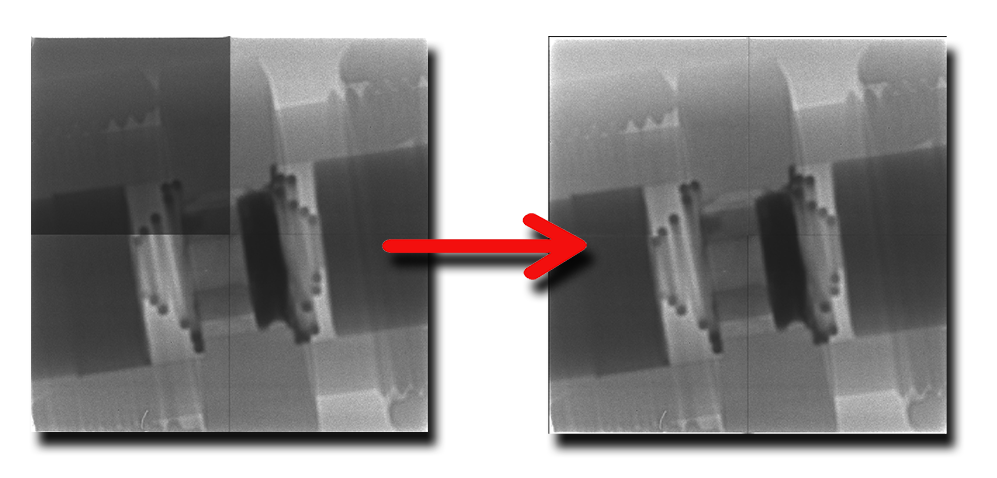
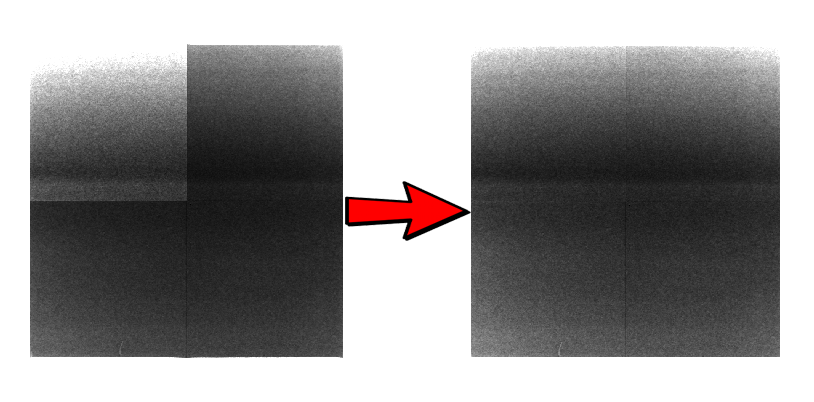
MCP chips correction

diff --git a/content/tutorial/notebooks/mcp_chips_corrector/_index.en.md b/content/tutorial/notebooks/mcp_chips_corrector/_index.en.md
@@ -9,9 +9,13 @@ pre: "- "
 
 ## Description
 
-This notebook will allow you to correct individual MCP chips by applying an offset as shown here.
+This notebook can perform the following correction:
 
+ * apply an offset on the intensity of all the pixels of a given chip
 <img src='/tutorial/notebooks/mcp_chips_corrector/images/before_after.png' />
+
+ * fix the gap between the chips
+<img src='/tutorial/notebooks/mcp_chips_corrector/images/raw_alignment_corrected.png' />
 
 ## Start the notebook
 
@@ -39,46 +43,50 @@ Need help using the [File Selector]({{%relref "/tutorial/notebooks/file_selector
 
 <img src='/tutorial/notebooks/mcp_chips_corrector/images/ui_preview_1.png' />
 <img src='/tutorial/notebooks/mcp_chips_corrector/images/ui_preview_2.png' />
+<img src='/tutorial/notebooks/mcp_chips_corrector/images/ui_preview_3.png' />
+<img src='/tutorial/notebooks/mcp_chips_corrector/images/ui_preview_4.png' />
 
 ## How Does it Work ?
 
-The first tab **Setup** allows to define the chips that needs to be corrected. The image displayed is the integrated
-signal of all the images selected. A profile region, that can be
-resized and reoriented, allows to calculate automatically the average counts on either side of a chip gap. The
-difference of average counts leads to the calculation of a corrector coefficient that is applied to the
-working chips (red framing around it). The second tab **with correction** displays the resulting correction applied
-to the integrated image. 
+The UI is composed of 3 main tabs. The first tab allows you to **apply an offset on any of the chip**, the second tab
+to **correct the geometrical gap between the chips and, if you want, fill the gap with interpolated value**, and the
+final tab display the result of those corrections combined into the integrated stack of images selected.
 
 ### Step by Step
 
-#### Step 1 - Select the profile to use
+#### Step 1 - Apply Contrast Correction
 
-In this first step, you need to define a region, either vertically or horizontally, that overlap the working
-chip and another chip to estimate the correction to apply. If the profile selected is horizontally for example, the 
-program will integrate all the pixels in the vertical direction within the profile region. The profile is then
-displayed on the right side of the UI with the average counts for either side of the gap, gap highlighted as a 
-green vertical line. 
+If you want to correct the intensity of any of the chips, click the **Apply contrast correction** check box.
 
+You can correct the intensity of the chips selected in the **chips index to correct** box in 2 ways:
+
+ * manual mode
+ * automatic mode
+ 
+ **Manual mode**
+ 
+ Enter a **coefficient corrector** value in the field (bottom right) and hit ENTER.
+ 
+ **Automatic mode**
+ 
+ Use selection box in the left preview to overlap the chip to correct with a chip next to it. The program will
+ automatically match the average intensity of the 2 regions and calculate the **coefficient corrector** that bring
+ those two values together.
+ 
 <img src='/tutorial/notebooks/mcp_chips_corrector/images/profile.gif' />
 
-The profile region can be resized using the 2 handles as shown here.
+#### Step 2 - Alignment
 
-<img src='/tutorial/notebooks/mcp_chips_corrector/images/profile_handles.gif' />
+This tab allows to correct the gap between the chips using pre-defined parameters. If you activate the 
+alignment, the right chips will be offset to the right by 2 pixels, and the bottom chips by 3 pixels. 
 
-#### Step 2 - Select working chip and position profile
+Then if you activate the **auto-fill gaps** switch, the gap between the chips will be filled by the interpolated
+pixel intensity on either side of the gap. 
 
-Using bottom widgets, select the chip you want to correct. The **working** chip will be highlighted by a red
-contour in the display window. Then move, and resize if needed, the profile to make sure it covers either the 
-**working** chip and another chip to use as reference counts. Ideally, try to profile a common feature on either 
-side of the chip gap. 
+<img src='/tutorial/notebooks/mcp_chips_corrector/images/alignment.gif' />
 
-<img src='/tutorial/notebooks/mcp_chips_corrector/images/bad_and_good_profiles.png' />
+#### Step 3 - RESULT and export
 
-#### Step 3 - Visualize correction and repeat correction on all images
+This tab will apply all the selected corrections and display the result on the integrated image.
 
-Jump to the second tab called **with correction** to visualize the correction on the integrated image. 
-
- * If correction seems to work, click bottom switch to select output folder where all the images will be corrected.
- * if correction still seems to be off, you can define a manual correction value in the bottom right widget. 
- 
-<img src='/tutorial/notebooks/mcp_chips_corrector/images/export.gif' />
+Click the **Correct and Export all Images...** to select an output folder and export those images in fits format.
